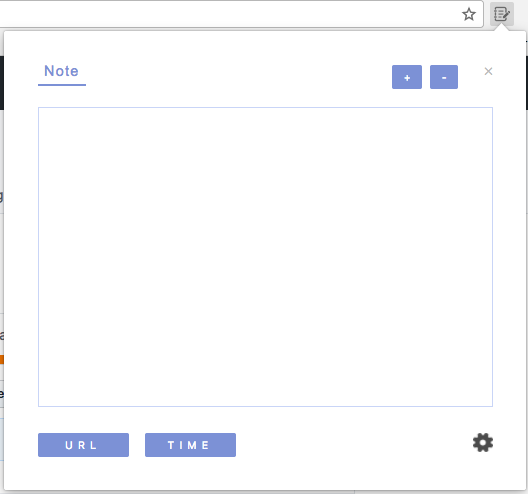
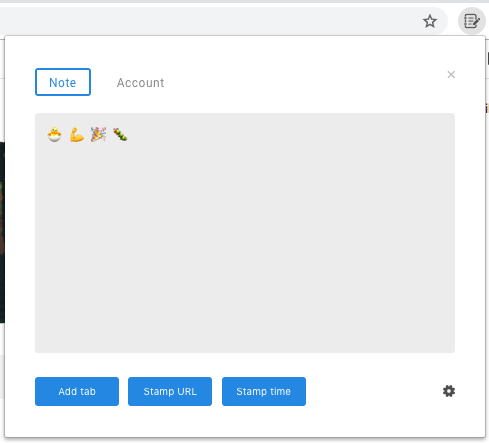
fix style

diff --git a/public/files/css/popup.css b/public/files/css/popup.css
@@ -1,2 +1,2 @@
 @charset "UTF-8";
-*{margin:0;padding:0}html{overflow-y:scroll;word-break:break-all}h1,h2,h3,h4,h5,h6{font-size:100%;font-weight:normal}ol,ul{list-style:none}blockquote,q{quotes:none}:focus{outline:0}ins{text-decoration:none}del{text-decoration:line-through}img{border:0;vertical-align:bottom}address{font-style:normal}body{color:#3b3b3b;font-family:"Hiragino Kaku Gothic ProN",Meiryo,sans-serif}p,li,dt,dl{line-height:1.6;letter-spacing:.5px}strong{font-weight:bold}em{font-style:normal}a{color:#000;text-decoration:none}a:hover{text-decoration:none}button{padding:0;border:none;background-color:transparent;outline:none;cursor:pointer;appearance:none}div,ul,dl,ol{zoom:1}header:after,section:after,div:after,ul:after,li:after,dl:after,ol:after{content:'';display:block;clear:both;visibility:hidden}html,body{-webkit-font-smoothing:antialiased}html{font-size:16px}[data-content]{display:none}#all{width:40rem}.wrap{position:relative;padding:2.5rem}.window-ui{position:absolute;top:2.5rem;right:2.5rem;color:#bbb;font-size:.8rem}.header{margin-bottom:1.4rem;}.header .tab-navi{float:left;width:87%;margin-top:-1rem}.header .tab-controler{float:right;width:8%;margin-right:5%}.header .page-tab{display:inline-block;position:relative;margin-top:1rem;margin-right:1rem;}.header .page-tab .name{padding:0 .5rem .5rem;border-bottom:2px solid transparent;color:#888;font-size:1.1rem;font-family:'Roboto',arial,sans-serif;letter-spacing:.1rem;line-height:1rem}.header .page-tab .edit-name{display:none}.header .page-tab .delete{display:block;opacity:0;position:absolute;top:-.5rem;right:-.5rem;padding:0 .2rem;cursor:pointer;transition:opacity .25s ease-in-out}.header .page-tab.active .name{border-bottom-color:#7f95d1;color:#7f95d1;cursor:text}.header .page-tab.edit .name,.header .page-tab.edit .delete{display:none !important}.header .page-tab.edit .edit-name{display:block}.header .page-tab:hover .delete{display:block;opacity:1}.header .page-title{display:inline-block;color:#888;font-size:1.1rem;font-family:'Roboto',arial,sans-serif;letter-spacing:.1rem}.edit-name{padding:.3rem .5rem .2rem;border:none;color:#3b3b3b;font-size:1rem;transition:background-color .1s ease-in-out;}.edit-name:focus{background-color:#f3f3f3}.input-setting{padding:.3rem .4rem;border:none;color:#3b3b3b;font-size:1rem;transition:background-color .1s ease-in-out;}.input-setting:focus{background-color:#f3f3f3}.button-jump{position:relative;float:right;width:1.5rem;height:1.5rem;background-position:center;background-size:contain;background-repeat:no-repeat;font-size:.8rem;transition:opacity .1s ease-in-out;}.button-jump:hover{opacity:.8}.button-jump[data-jump="setting"]{background-image:url("../img/icon/setting.png")}.button-jump[data-jump="memo"]{background-image:url("../img/icon/memo.png")}.button-save{width:7rem;margin-right:1rem;padding:.4rem 1rem;border:1px solid #7f95d1;border-radius:2px;background-color:#7f95d1;color:#fff;font-size:.8rem;letter-spacing:.4rem;cursor:pointer;transition:all .1s ease-in-out;}.button-save:hover{background-color:#a0b4e5}.button-save:active{background-color:#4f68a8;letter-spacing:.1rem}.button-save:focus{border:1px solid #4f68a8}.button-utils{width:7rem;margin-right:1rem;padding:.4rem 1rem;border:1px solid #7f95d1;border-radius:2px;background-color:#7f95d1;color:#fff;font-size:.8rem;letter-spacing:.4rem;cursor:pointer;transition:all .1s ease-in-out;}.button-utils:hover{background-color:#a0b4e5}.button-utils:active{background-color:#4f68a8;letter-spacing:.1rem}.button-utils:focus{border:1px solid #4f68a8}.button-switch{margin-right:.4rem;padding:.4rem .8rem;border:1px solid #7f95d1;border-radius:2px;background-color:#7f95d1;color:#fff;font-size:.8rem;text-align:center;cursor:pointer;transition:all .1s ease-in-out;}.button-switch:hover{background-color:#a0b4e5}.button-switch:active{background-color:#4f68a8}.button-switch:focus{border:1px solid #4f68a8}.content{margin-bottom:2rem}[data-area_id]{display:none;}[data-area_id].active{display:block}.content-area{height:20rem;border-radius:2px}.textarea{width:100%;height:100%;padding:1rem;border:none;border-radius:3px;box-sizing:border-box;color:#3b3b3b;font-size:1rem;letter-spacing:.1rem;resize:none;transition:border .1s ease-in-out;background-color:#f3f3f3}.setting-list li{margin-bottom:2rem;}.setting-list li:last-child{margin-bottom:0}.setting-list li label{display:inline-block;border-bottom:1px solid #cbd7f4;font-size:.8rem;line-height:1}.setting-list li p{color:#7f95d1}.setting-list li input{margin-right:.5rem}#message{position:absolute;right:4.6rem;bottom:3rem;font-size:.8rem;}#message p{position:relative;}#message p.success{color:#a0b4e5}#message p.nice{color:#a2ea93}#message p.error{color:#ff82a9}#modalwindow{display:none;position:fixed;top:0;left:0;width:100%;height:100%;}#modalwindow .background{width:100%;height:100%;background-color:rgba(0,0,0,0.6)}#modalwindow .modalwindow-content{position:absolute;left:0;right:0;width:60%;margin:auto;border-radius:2px;background-color:#fff;}#modalwindow .modalwindow-content .button-close{position:absolute;top:1.5rem;right:1.5rem;color:#bbb;font-size:.8rem}#modalwindow .modalwindow-content .modalwindow-field{padding:2rem}#modalwindow .modalwindow-content .title{margin-bottom:.5rem;font-size:1.2rem;font-weight:bold;text-align:center}#modalwindow .modalwindow-content .text{font-size:.9rem;text-align:center}#modalwindow .modalwindow-content .judge{margin-top:2rem;text-align:center;}#modalwindow .modalwindow-content .judge button{margin:0 1rem;padding:.2rem 1rem;font-size:1rem}
+*{margin:0;padding:0}html{overflow-y:scroll;word-break:break-all}h1,h2,h3,h4,h5,h6{font-size:100%;font-weight:normal}ol,ul{list-style:none}blockquote,q{quotes:none}:focus{outline:0}ins{text-decoration:none}del{text-decoration:line-through}img{border:0;vertical-align:bottom}address{font-style:normal}body{color:#3b3b3b;font-family:"Hiragino Kaku Gothic ProN",Meiryo,sans-serif}p,li,dt,dl{line-height:1.6;letter-spacing:.5px}strong{font-weight:bold}em{font-style:normal}a{color:#000;text-decoration:none}a:hover{text-decoration:none}button{padding:0;border:none;background-color:transparent;outline:none;cursor:pointer;appearance:none}div,ul,dl,ol{zoom:1}header:after,section:after,div:after,ul:after,li:after,dl:after,ol:after{content:'';display:block;clear:both;visibility:hidden}html,body{-webkit-font-smoothing:antialiased}html{font-size:16px}[data-content]{display:none}#all{width:40rem}.wrap{position:relative;padding:2.5rem}.window-ui{position:absolute;top:2.5rem;right:2.5rem;color:#bbb;font-size:.8rem;font-weight:bold}.header{margin-bottom:1.4rem;}.header .tab-navi{display:flex}.header .page-tab{position:relative;margin-right:1rem;}.header .page-tab .name{padding:.5rem 1rem;border:2px solid transparent;border-radius:3px;color:#888;font-size:1rem;font-family:'Roboto',arial,sans-serif;line-height:1;cursor:pointer;transition:all .15s ease-in-out}.header .page-tab .edit-name{display:none}.header .page-tab .delete{display:block;opacity:0;position:absolute;top:-.9rem;right:-.9rem;width:1rem;height:1rem;vertical-align:middle;text-align:center;line-height:1rem;cursor:pointer;transition:opacity .25s ease-in-out}.header .page-tab.active .name{border-color:#1e88e5;color:#1e88e5;cursor:text}.header .page-tab.edit .name,.header .page-tab.edit .delete{display:none !important}.header .page-tab.edit .edit-name{display:block}.header .page-tab:hover .delete{display:block;opacity:1}.header .page-title{display:inline-block;color:#888;font-size:1.1rem;font-family:'Roboto',arial,sans-serif;letter-spacing:.1rem}.edit-name{max-width:7em;padding:calc(0.5rem - 1.5px) 1rem;border:2px solid #bbb;border-radius:3px;box-sizing:border-box;color:#3b3b3b;font-size:1rem;transition:background-color .1s ease-in-out;}.edit-name:focus{background-color:#f3f3f3}.input-setting{padding:.3rem .4rem;border:none;color:#3b3b3b;font-size:1rem;transition:background-color .1s ease-in-out;}.input-setting:focus{background-color:#f3f3f3}.button-list{display:flex;justify-content:space-between;align-items:center;}.button-list:after{display:none}.button-list .button-list-utils .button-utils{margin-right:.5rem;}.button-list .button-list-utils .button-utils:last-child{margin-right:0}.button-jump{width:1rem;height:1rem;background-position:center;background-size:contain;background-repeat:no-repeat;font-size:.8rem;transition:opacity .1s ease-in-out;}.button-jump:hover{opacity:.8}.button-jump[data-jump="setting"]{background-image:url("../img/icon/setting.png")}.button-jump[data-jump="memo"]{background-image:url("../img/icon/memo.png")}.button{display:inline-block;border-radius:3px;background-color:#1e88e5;color:#fff;font-size:.8rem;line-height:1;cursor:pointer;transition:all .1s ease-in-out;}.button:hover{background-color:#42a5f5}.button:active{background-color:#1976d2;letter-spacing:.1rem}.button span{display:inline-block;min-width:5rem;padding:.8rem 1rem}.content{margin-bottom:2rem}[data-area_id]{display:none;}[data-area_id].active{display:block}.content-area{height:20rem;border-radius:2px}.textarea{width:100%;height:100%;padding:1rem;border:none;border-radius:3px;box-sizing:border-box;color:#3b3b3b;font-size:1rem;letter-spacing:.1rem;resize:none;transition:all .15s ease-in-out;background-color:#f3f3f3;}.textarea:active,.textarea:focus{background-color:#ececec}.setting-list li{margin-bottom:2rem;}.setting-list li:last-child{margin-bottom:0}.setting-list li label{display:inline-block;border-bottom:1px solid #cbd7f4;font-size:.8rem;line-height:1}.setting-list li p{color:#1e88e5}.setting-list li input{margin-right:.5rem}#message{position:absolute;right:2rem;bottom:1.4rem;font-size:.8rem;}#message p{position:relative;}#message p.success{color:#42a5f5}#message p.nice{color:#a2ea93}#message p.error{color:#ff82a9}#modalwindow{display:none;position:fixed;top:0;left:0;width:100%;height:100%;}#modalwindow .background{width:100%;height:100%;background-color:rgba(0,0,0,0.6)}#modalwindow .modalwindow-content{position:absolute;left:0;right:0;width:60%;margin:auto;border-radius:2px;background-color:#fff;}#modalwindow .modalwindow-content .button-close{position:absolute;top:1.5rem;right:1.5rem;color:#bbb;font-size:.8rem}#modalwindow .modalwindow-content .modalwindow-field{padding:2rem}#modalwindow .modalwindow-content .title{margin-bottom:.5rem;font-size:1.2rem;font-weight:bold;text-align:center}#modalwindow .modalwindow-content .text{font-size:.9rem;text-align:center}#modalwindow .modalwindow-content .judge{margin-top:2rem;text-align:center;}#modalwindow .modalwindow-content .judge button{margin:0 1rem;padding:.2rem 1rem;font-size:1rem}

diff --git a/public/files/js/popup.js b/public/files/js/popup.js
@@ -712,7 +712,7 @@ view_page_Memo.prototype = $extend(view_Page.prototype,{
 		view_page_MemoManager.focus();
 	}
 	,setHTML: function() {
-		var html = "\n\t\t\t<section data-content=\"" + this._pagename + "\">\n\t\t\t\t<header class=\"header\">\n\t\t\t\t\t<nav class=\"tab-navi\"></nav>\n\t\t\t\t\t<div class=\"tab-controler\">\n\t\t\t\t\t\t<button class=\"button-switch\" data-switch=\"increment\">+</button>\n\t\t\t\t\t</div>\n\t\t\t\t</header>\n\t\t\t\t<div class=\"content\"></div>\n\t\t\t\t<button class=\"button-utils\" data-add=\"url\"><span>URL</span></button>\n\t\t\t\t<button class=\"button-utils\" data-add=\"time\"><span>TIME</span></button>\n\t\t\t\t<button class=\"button-jump\" data-jump=\"setting\">&nbsp;</button>\n\t\t\t</section>";
+		var html = "\n\t\t\t<section data-content=\"" + this._pagename + "\">\n\t\t\t\t<header class=\"header\">\n\t\t\t\t\t<nav class=\"tab-navi\"></nav>\n\t\t\t\t</header>\n\t\t\t\t<div class=\"content\"></div>\n\t\t\t\t<div class=\"button-list\">\n\t\t\t\t\t<div class=\"button-list-utils\">\n\t\t\t\t\t\t<button class=\"button button-utils\" data-add=\"increment\">\n\t\t\t\t\t\t\t<span>Add tab</span>\n\t\t\t\t\t\t</button>\n\t\t\t\t\t\t<button class=\"button button-utils\" data-add=\"url\">\n\t\t\t\t\t\t\t<span>Stamp URL</span>\n\t\t\t\t\t\t</button>\n\t\t\t\t\t\t<button class=\"button button-utils\" data-add=\"time\">\n\t\t\t\t\t\t\t<span>Stamp time</span>\n\t\t\t\t\t\t</button>\n\t\t\t\t\t</div>\n\t\t\t\t\t<button class=\"button-jump\" data-jump=\"setting\">&nbsp;</button>\n\t\t\t\t</div>\n\t\t\t</section>";
 		view_PageManager.addHTML(html);
 	}
 });
@@ -775,6 +775,9 @@ view_page_MemoManager.setTabButton = function() {
 view_page_MemoManager.setAddButton = function(event) {
 	var key = $(event.currentTarget).data("add");
 	switch(key) {
+	case "increment":
+		view_page_TabControler.onClick(event);
+		break;
 	case "time":
 		view_page_MemoManager.addTime();
 		break;
@@ -907,7 +910,7 @@ view_page_Setting.prototype = $extend(view_Page.prototype,{
 		}
 	}
 	,setHTML: function() {
-		var html = "\n\t\t\t<section data-content=\"" + this._pagename + "\">\n\t\t\t\t<header class=\"header\">\n\t\t\t\t\t<h2 class=\"page-title\">Setting</h2>\n\t\t\t\t</header>\n\t\t\t\t<div class=\"content\">\n\t\t\t\t\t<ul class=\"setting-list\">\n\t\t\t\t\t\t<li><label><p>Height (input textarea)</p><input class=\"input-setting\" type=\"text\" name=\"height\">px</label></li>\n\t\t\t\t\t\t<li><label><p>Font size</p><input class=\"input-setting\" type=\"text\" name=\"fontSize\">px</label></li>\n\t\t\t\t\t</ul>\n\t\t\t\t</div>\n\t\t\t\t<button class=\"button-save\"><span>SAVE</span></button>\n\t\t\t\t<button class=\"button-jump\" data-jump=\"memo\">&nbsp;</button>\n\t\t\t</section>";
+		var html = "<section data-content=\"" + this._pagename + "\">\n\t\t\t\t<header class=\"header\">\n\t\t\t\t\t<h2 class=\"page-title\">Setting</h2>\n\t\t\t\t</header>\n\t\t\t\t<div class=\"content\">\n\t\t\t\t\t<ul class=\"setting-list\">\n\t\t\t\t\t\t<li>\n\t\t\t\t\t\t\t<label>\n\t\t\t\t\t\t\t\t<p>Height (input textarea)</p>\n\t\t\t\t\t\t\t\t<input class=\"input-setting\" type=\"text\" name=\"height\">px\n\t\t\t\t\t\t\t</label>\n\t\t\t\t\t\t</li>\n\t\t\t\t\t\t<li>\n\t\t\t\t\t\t\t<label>\n\t\t\t\t\t\t\t\t<p>Font size</p>\n\t\t\t\t\t\t\t\t<input class=\"input-setting\" type=\"text\" name=\"fontSize\">px\n\t\t\t\t\t\t\t</label>\n\t\t\t\t\t\t</li>\n\t\t\t\t\t</ul>\n\t\t\t\t</div>\n\t\t\t\t<div class=\"button-list\">\n\t\t\t\t\t<div class=\"button-list-utils\">\n\t\t\t\t\t\t<button class=\"button button-save\">\n\t\t\t\t\t\t\t<span>Save</span>\n\t\t\t\t\t\t</button>\n\t\t\t\t\t</div>\n\t\t\t\t\t<button class=\"button-jump\" data-jump=\"memo\">&nbsp;</button>\n\t\t\t\t</div>\n\t\t\t</section>";
 		view_PageManager.addHTML(html);
 	}
 	,getListData: function() {
@@ -1062,11 +1065,9 @@ view_page_Tab.prototype = {
 var view_page_TabControler = function() { };
 view_page_TabControler.__name__ = true;
 view_page_TabControler.init = function(jParent) {
-	view_page_TabControler._jParent = jParent.find(".tab-controler");
-	view_page_TabControler._jParent.on("click","[data-switch]",view_page_TabControler.onClick);
 };
 view_page_TabControler.onClick = function(event) {
-	var action = $(event.currentTarget).data("switch");
+	var action = $(event.currentTarget).data("add");
 	switch(action) {
 	case "decrement":
 		view_page_TabControler.decrement();
